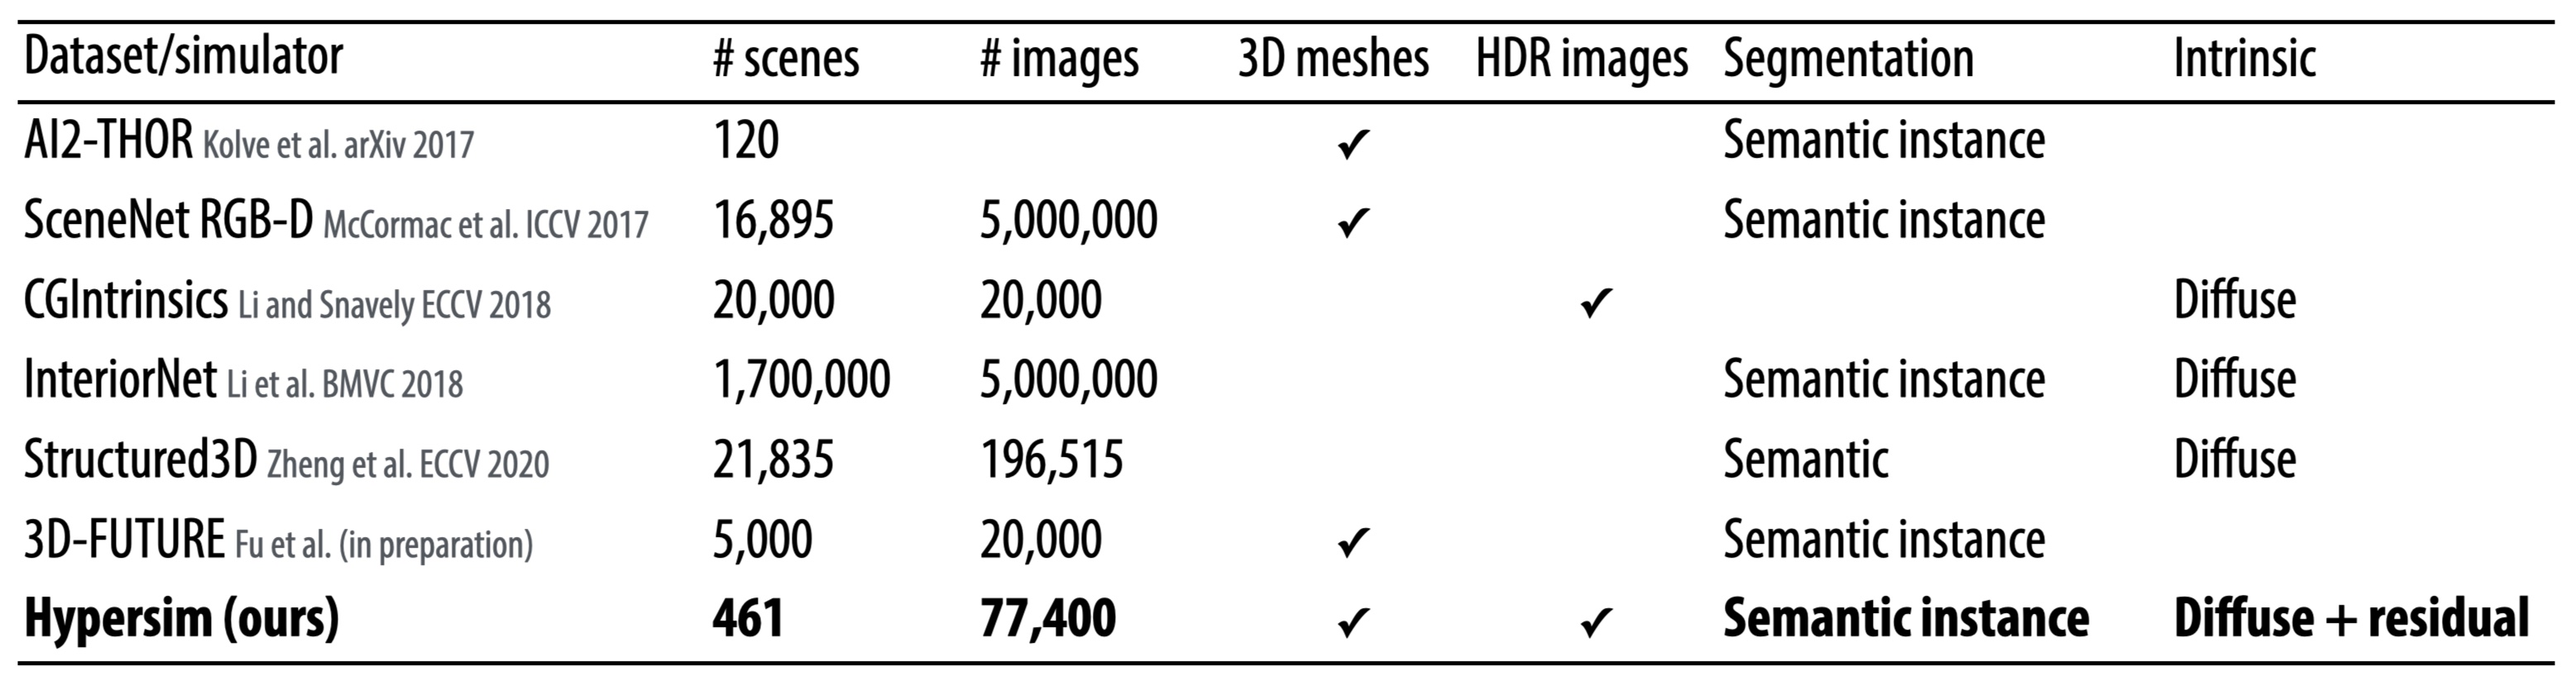
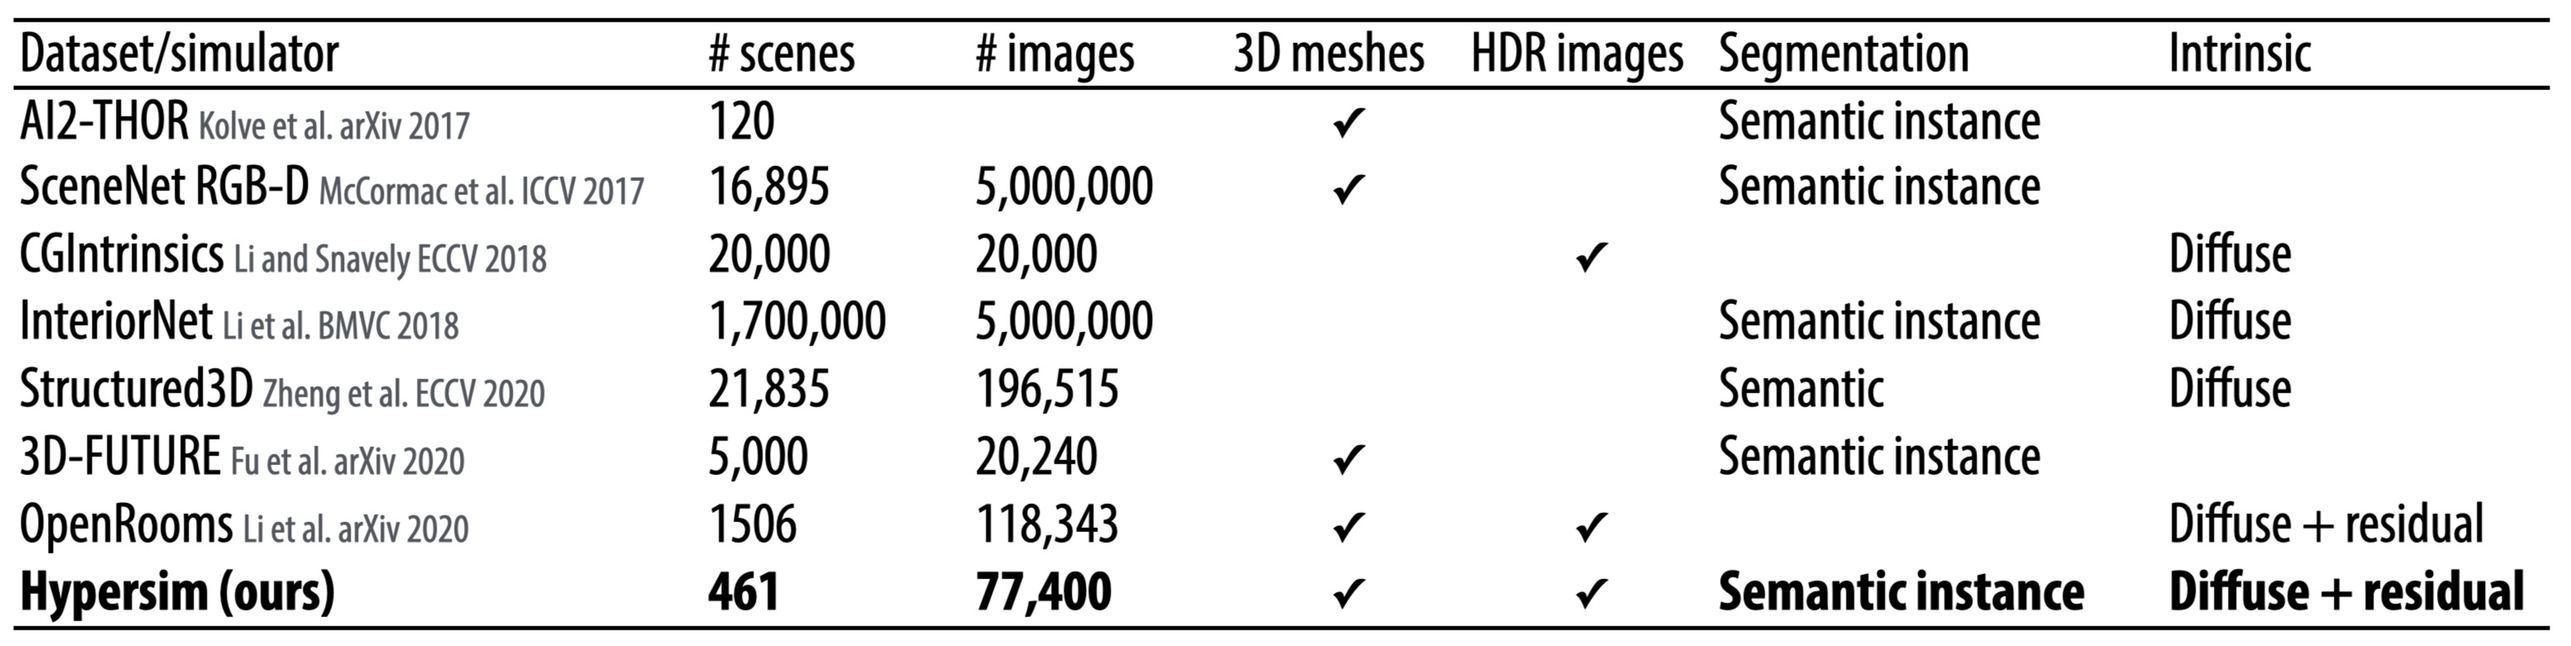
added reference to OpenRooms

diff --git a/papers/hypersim/index.html b/papers/hypersim/index.html
@@ -145,7 +145,7 @@
                     <tr>
                         <td>
                             <p>
-                                <strong><a href='https://arxiv.org/abs/2011.02523'>arXiv</a></strong> | <strong>Code</strong> (coming soon...)
+                                <strong><a href='https://arxiv.org/abs/2011.02523'>arXiv</a></strong> | <strong>Code</strong> (coming soon...) | <strong>Data</strong> (we're working on it...)
                             </p>
                         </td>
                     </tr>
